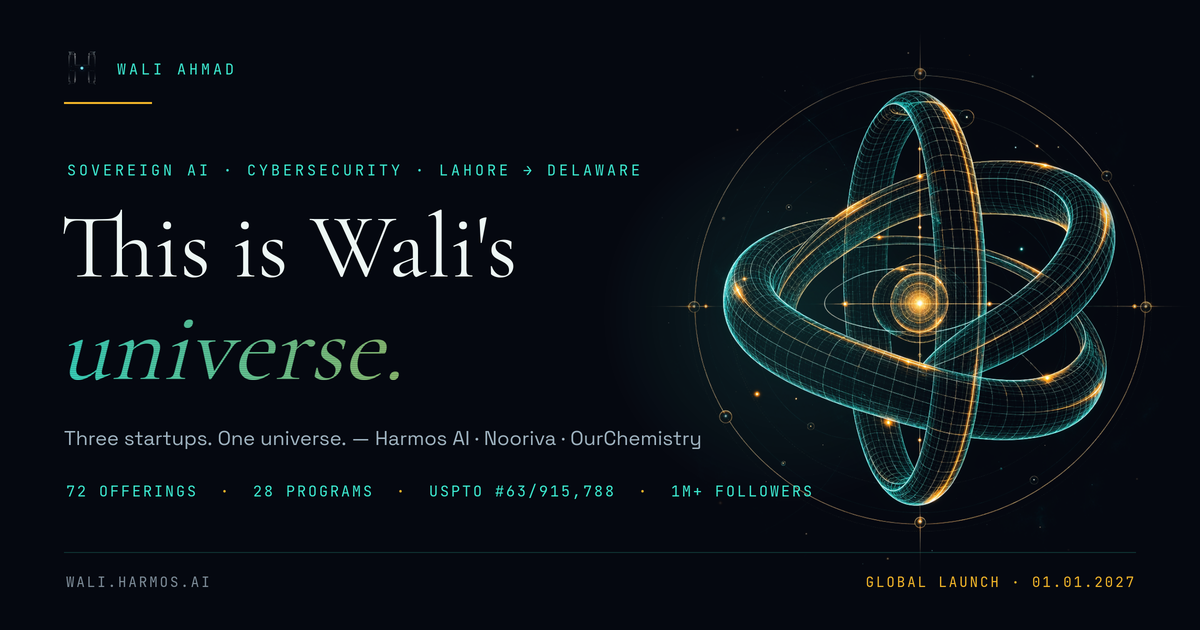
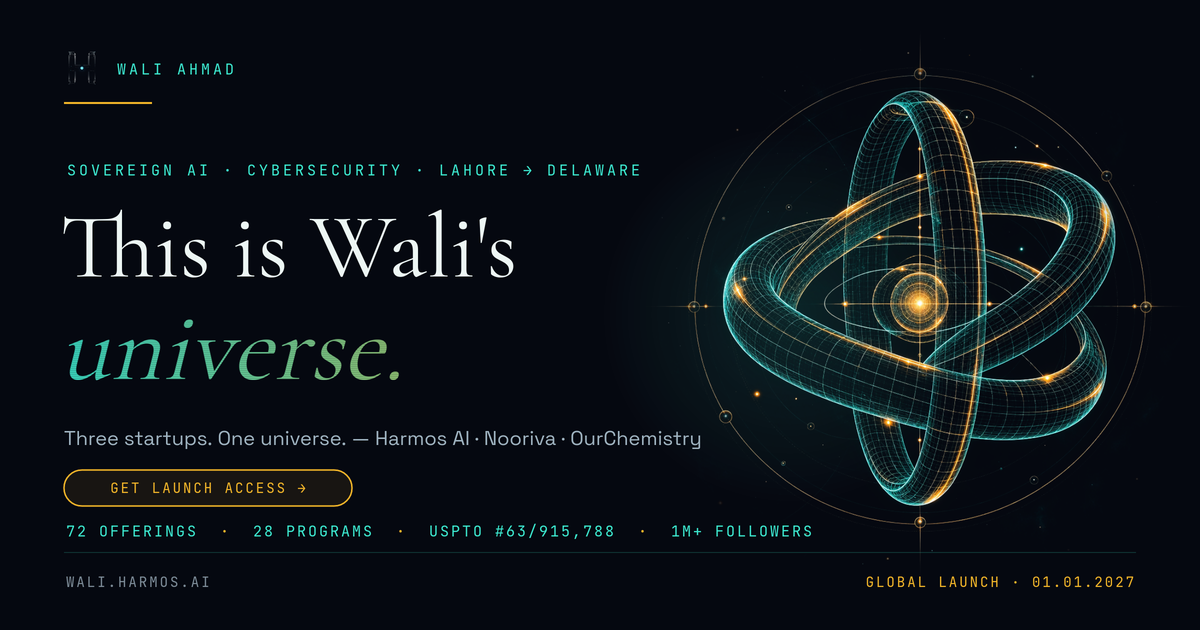
Fix meta tags: short descriptions, summary_large_image, CTA on og-card

diff --git a/index.html b/index.html
@@ -4,7 +4,7 @@
 <meta charset="UTF-8">
 <meta name="viewport" content="width=device-width, initial-scale=1.0">
 <title>Wali Ahmad — This Is Wali’s Universe</title>
-<meta name="description" content="72 offerings across five lanes — instant AI systems, commissioned builds, authority engagements, academy cohorts and the Harmos network. Built by Wali Ahmad, founder of harmos.ai, nooriva.ai and ourchemistry.ai.">
+<meta name="description" content="Wali Ahmad — founder of Harmos AI, Nooriva & OurChemistry. 72 AI offerings, USPTO #63/915,788. Lahore → Delaware. Global launch 01.01.2027.">
 <link rel="icon" type="image/png" href="assets/logo.png">
 <meta name="keywords" content="Wali Ahmad, Wali, Ahmad, Wali Ahmad Lahore, Wali Ahmad Pakistan, cybersecurity Pakistan, cyber security expert Pakistan, ethical hacking Pakistan, Harvard cybersecurity, AI engineer Pakistan, machine learning engineer Lahore, RAG systems, LLM fine-tuning, AI agents, post-quantum cryptography, PQC migration, quantum computing Qiskit, blockchain developer Pakistan, Web3 Base L2, smart contracts, Harmos AI, harmos.ai, Nooriva, nooriva.ai, OurChemistry, ourchemistry.ai, sovereign AI, zero-trust AI verification, USPTO 63/915788, Deep Behavioral Alignment, Multi-Layer Trust Architecture, Forbes Technology Council, Marquis Who's Who, The Thinking Millionaire, The 1/137 Blue Print, AI academy Pakistan, commissioned AI builds, freelance AI expert Pakistan, Delaware C-Corp Pakistan founder">
 <meta name="author" content="Wali Ahmad">
@@ -17,11 +17,11 @@
 <meta property="og:site_name" content="Wali Ahmad">
 <meta property="og:url" content="https://wali.harmos.ai/">
 <meta property="og:title" content="Wali Ahmad — This Is Wali’s Universe">
-<meta property="og:description" content="72 offerings across five lanes — instant AI systems, commissioned builds, authority engagements, academy cohorts and the Harmos network. Three live ventures. 28 elite programs. Two filed patents.">
+<meta property="og:description" content="Three startups. One universe. Harmos AI · Nooriva · OurChemistry — global launch 01.01.2027.">
 <meta property="og:image" content="https://wali.harmos.ai/assets/og-card.png">
 <meta property="og:image:width" content="1200">
 <meta property="og:image:height" content="630">
-<meta name="twitter:card" content="summary">
+<meta name="twitter:card" content="summary_large_image">
 <meta name="twitter:title" content="Wali Ahmad — This Is Wali’s Universe">
 <meta name="twitter:description" content="Order the build. Own the proof. AI systems, RAG, blockchain, PQC — instant downloads and commissioned builds from the founder of Harmos AI.">
 <meta name="twitter:image" content="https://wali.harmos.ai/assets/og-card.png">

diff --git a/sovereign.html b/sovereign.html
@@ -4,7 +4,7 @@
 <meta charset="UTF-8">
 <meta name="viewport" content="width=device-width, initial-scale=1.0">
 <title>Wali Ahmad — This Is Wali’s Universe</title>
-<meta name="description" content="72 offerings across five lanes — instant AI systems, commissioned builds, authority engagements, academy cohorts and the Harmos network. Built by Wali Ahmad, founder of harmos.ai, nooriva.ai and ourchemistry.ai.">
+<meta name="description" content="Wali Ahmad — founder of Harmos AI, Nooriva & OurChemistry. 72 AI offerings, USPTO #63/915,788. Lahore → Delaware. Global launch 01.01.2027.">
 <link rel="icon" type="image/png" href="assets/logo.png">
 <meta name="keywords" content="Wali Ahmad, Wali, Ahmad, Wali Ahmad Lahore, Wali Ahmad Pakistan, cybersecurity Pakistan, cyber security expert Pakistan, ethical hacking Pakistan, Harvard cybersecurity, AI engineer Pakistan, machine learning engineer Lahore, RAG systems, LLM fine-tuning, AI agents, post-quantum cryptography, PQC migration, quantum computing Qiskit, blockchain developer Pakistan, Web3 Base L2, smart contracts, Harmos AI, harmos.ai, Nooriva, nooriva.ai, OurChemistry, ourchemistry.ai, sovereign AI, zero-trust AI verification, USPTO 63/915788, Deep Behavioral Alignment, Multi-Layer Trust Architecture, Forbes Technology Council, Marquis Who's Who, The Thinking Millionaire, The 1/137 Blue Print, AI academy Pakistan, commissioned AI builds, freelance AI expert Pakistan, Delaware C-Corp Pakistan founder">
 <meta name="author" content="Wali Ahmad">
@@ -17,11 +17,11 @@
 <meta property="og:site_name" content="Wali Ahmad">
 <meta property="og:url" content="https://wali.harmos.ai/">
 <meta property="og:title" content="Wali Ahmad — This Is Wali’s Universe">
-<meta property="og:description" content="72 offerings across five lanes — instant AI systems, commissioned builds, authority engagements, academy cohorts and the Harmos network. Three live ventures. 28 elite programs. Two filed patents.">
+<meta property="og:description" content="Three startups. One universe. Harmos AI · Nooriva · OurChemistry — global launch 01.01.2027.">
 <meta property="og:image" content="https://wali.harmos.ai/assets/og-card.png">
 <meta property="og:image:width" content="1200">
 <meta property="og:image:height" content="630">
-<meta name="twitter:card" content="summary">
+<meta name="twitter:card" content="summary_large_image">
 <meta name="twitter:title" content="Wali Ahmad — This Is Wali’s Universe">
 <meta name="twitter:description" content="Order the build. Own the proof. AI systems, RAG, blockchain, PQC — instant downloads and commissioned builds from the founder of Harmos AI.">
 <meta name="twitter:image" content="https://wali.harmos.ai/assets/og-card.png">
